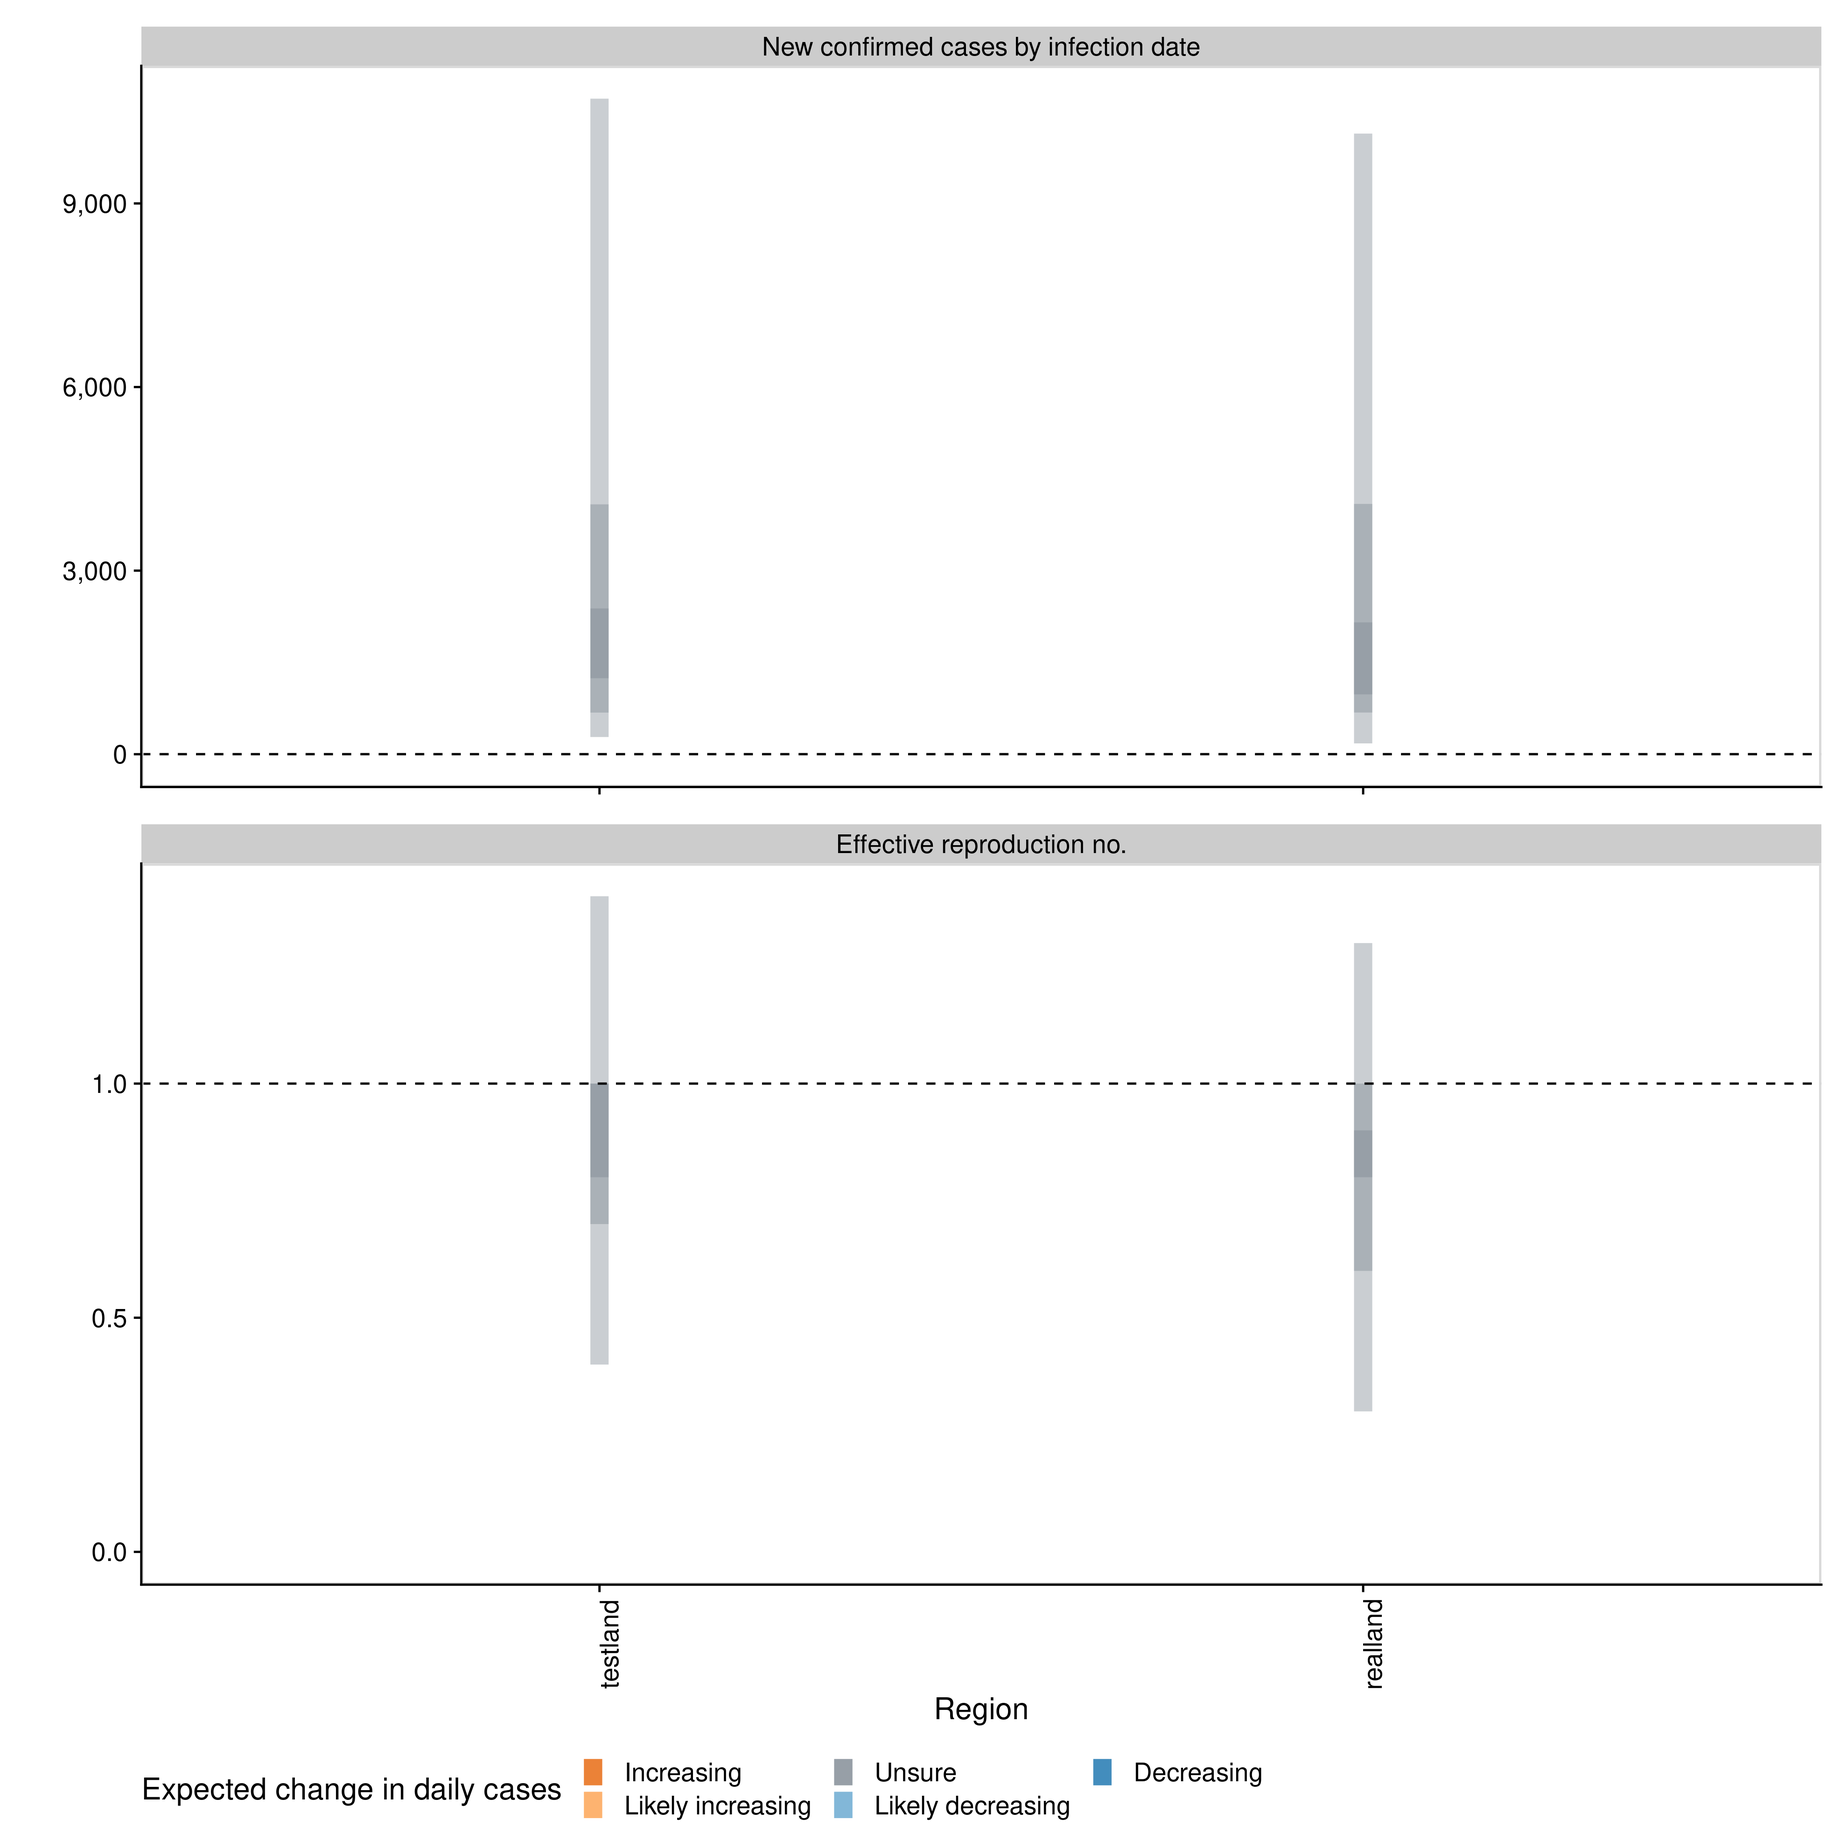
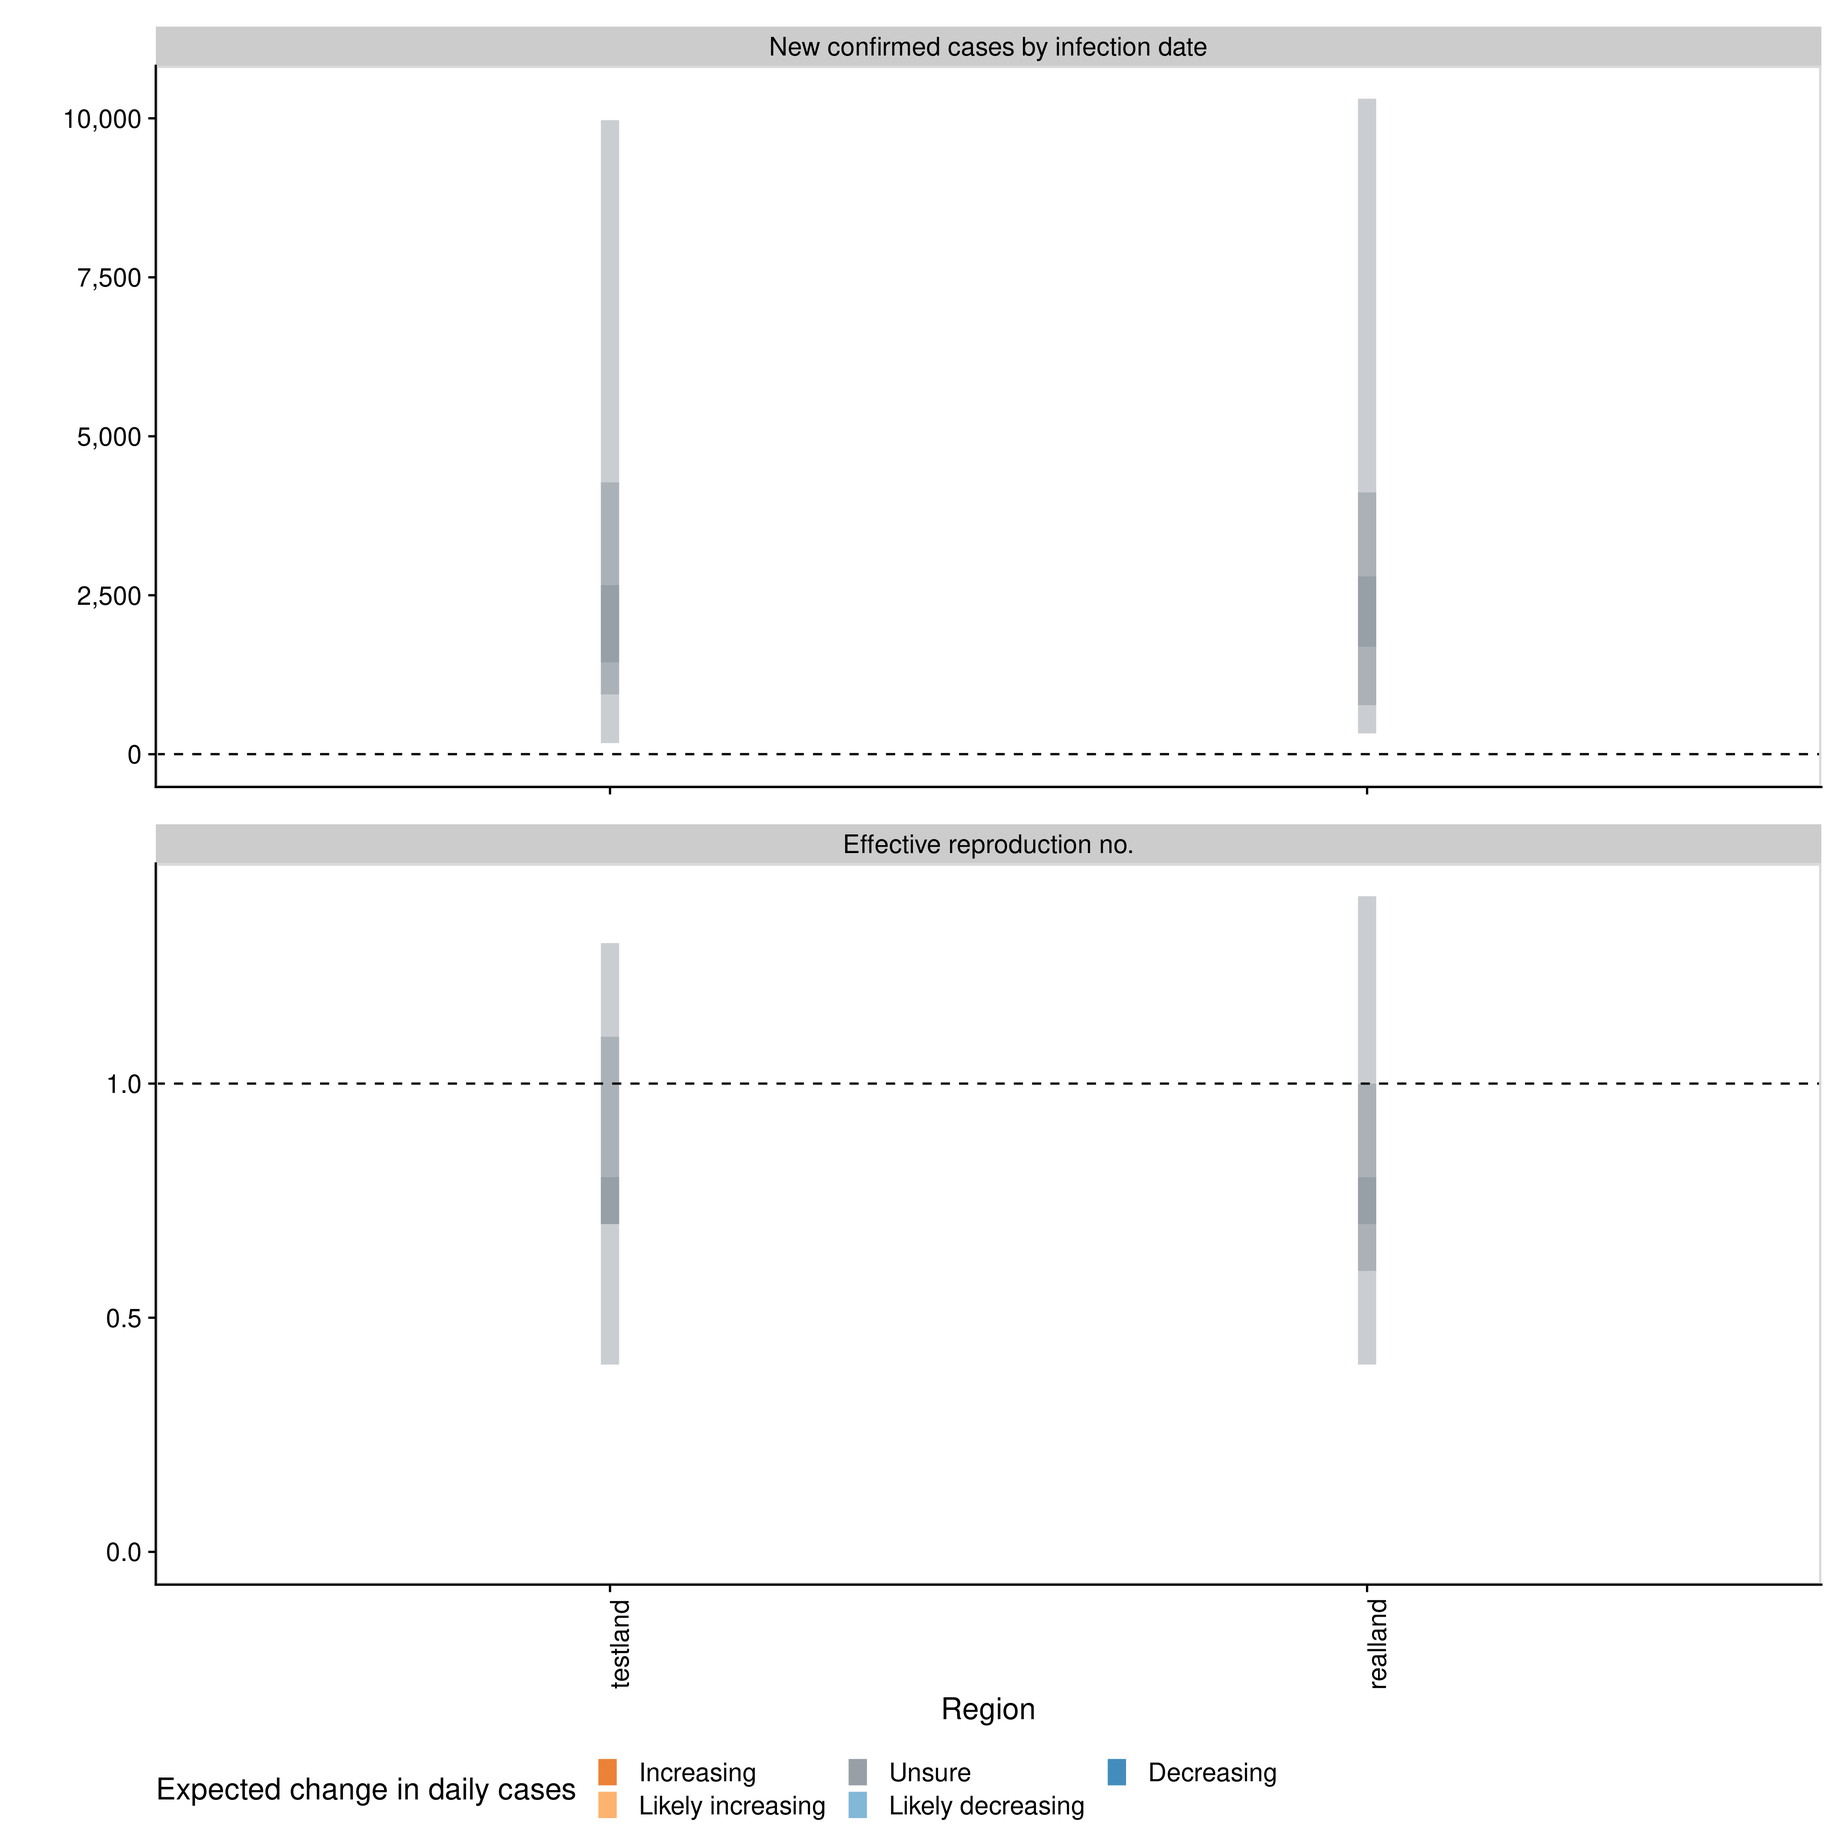
update readme

diff --git a/README.md b/README.md
@@ -147,88 +147,18 @@ incubation period followed by a reporting delay.
 
 ``` r
 reporting_delay <- bootstrapped_dist_fit(rlnorm(100, log(4), 1), max_value = 30)
-#> Warning: UNRELIABLE VALUE: Future ('future_lapply-1') unexpectedly generated
-#> random numbers without specifying argument '[future.]seed'. There is a risk that
-#> those random numbers are not statistically sound and the overall results might
-#> be invalid. To fix this, specify argument '[future.]seed', e.g. 'seed=TRUE'.
-#> This ensures that proper, parallel-safe random numbers are produced via the
-#> L'Ecuyer-CMRG method. To disable this check, use [future].seed=NULL, or set
-#> option 'future.rng.onMisuse' to "ignore".
-#> Warning: UNRELIABLE VALUE: Future ('future_lapply-2') unexpectedly generated
-#> random numbers without specifying argument '[future.]seed'. There is a risk that
-#> those random numbers are not statistically sound and the overall results might
-#> be invalid. To fix this, specify argument '[future.]seed', e.g. 'seed=TRUE'.
-#> This ensures that proper, parallel-safe random numbers are produced via the
-#> L'Ecuyer-CMRG method. To disable this check, use [future].seed=NULL, or set
-#> option 'future.rng.onMisuse' to "ignore".
-#> Warning: UNRELIABLE VALUE: Future ('future_lapply-3') unexpectedly generated
-#> random numbers without specifying argument '[future.]seed'. There is a risk that
-#> those random numbers are not statistically sound and the overall results might
-#> be invalid. To fix this, specify argument '[future.]seed', e.g. 'seed=TRUE'.
-#> This ensures that proper, parallel-safe random numbers are produced via the
-#> L'Ecuyer-CMRG method. To disable this check, use [future].seed=NULL, or set
-#> option 'future.rng.onMisuse' to "ignore".
-#> Warning: UNRELIABLE VALUE: Future ('future_lapply-4') unexpectedly generated
-#> random numbers without specifying argument '[future.]seed'. There is a risk that
-#> those random numbers are not statistically sound and the overall results might
-#> be invalid. To fix this, specify argument '[future.]seed', e.g. 'seed=TRUE'.
-#> This ensures that proper, parallel-safe random numbers are produced via the
-#> L'Ecuyer-CMRG method. To disable this check, use [future].seed=NULL, or set
-#> option 'future.rng.onMisuse' to "ignore".
-#> Warning: UNRELIABLE VALUE: Future ('future_lapply-5') unexpectedly generated
-#> random numbers without specifying argument '[future.]seed'. There is a risk that
-#> those random numbers are not statistically sound and the overall results might
-#> be invalid. To fix this, specify argument '[future.]seed', e.g. 'seed=TRUE'.
-#> This ensures that proper, parallel-safe random numbers are produced via the
-#> L'Ecuyer-CMRG method. To disable this check, use [future].seed=NULL, or set
-#> option 'future.rng.onMisuse' to "ignore".
-#> Warning: UNRELIABLE VALUE: Future ('future_lapply-6') unexpectedly generated
-#> random numbers without specifying argument '[future.]seed'. There is a risk that
-#> those random numbers are not statistically sound and the overall results might
-#> be invalid. To fix this, specify argument '[future.]seed', e.g. 'seed=TRUE'.
-#> This ensures that proper, parallel-safe random numbers are produced via the
-#> L'Ecuyer-CMRG method. To disable this check, use [future].seed=NULL, or set
-#> option 'future.rng.onMisuse' to "ignore".
-#> Warning: UNRELIABLE VALUE: Future ('future_lapply-7') unexpectedly generated
-#> random numbers without specifying argument '[future.]seed'. There is a risk that
-#> those random numbers are not statistically sound and the overall results might
-#> be invalid. To fix this, specify argument '[future.]seed', e.g. 'seed=TRUE'.
-#> This ensures that proper, parallel-safe random numbers are produced via the
-#> L'Ecuyer-CMRG method. To disable this check, use [future].seed=NULL, or set
-#> option 'future.rng.onMisuse' to "ignore".
-#> Warning: UNRELIABLE VALUE: Future ('future_lapply-8') unexpectedly generated
-#> random numbers without specifying argument '[future.]seed'. There is a risk that
-#> those random numbers are not statistically sound and the overall results might
-#> be invalid. To fix this, specify argument '[future.]seed', e.g. 'seed=TRUE'.
-#> This ensures that proper, parallel-safe random numbers are produced via the
-#> L'Ecuyer-CMRG method. To disable this check, use [future].seed=NULL, or set
-#> option 'future.rng.onMisuse' to "ignore".
-#> Warning: UNRELIABLE VALUE: Future ('future_lapply-9') unexpectedly generated
-#> random numbers without specifying argument '[future.]seed'. There is a risk that
-#> those random numbers are not statistically sound and the overall results might
-#> be invalid. To fix this, specify argument '[future.]seed', e.g. 'seed=TRUE'.
-#> This ensures that proper, parallel-safe random numbers are produced via the
-#> L'Ecuyer-CMRG method. To disable this check, use [future].seed=NULL, or set
-#> option 'future.rng.onMisuse' to "ignore".
-#> Warning: UNRELIABLE VALUE: Future ('future_lapply-10') unexpectedly generated
-#> random numbers without specifying argument '[future.]seed'. There is a risk that
-#> those random numbers are not statistically sound and the overall results might
-#> be invalid. To fix this, specify argument '[future.]seed', e.g. 'seed=TRUE'.
-#> This ensures that proper, parallel-safe random numbers are produced via the
-#> L'Ecuyer-CMRG method. To disable this check, use [future].seed=NULL, or set
-#> option 'future.rng.onMisuse' to "ignore".
 reporting_delay
 #> $mean
-#> [1] 1.207047
+#> [1] 1.121562
 #> 
 #> $mean_sd
-#> [1] 0.1490608
+#> [1] 0.1641465
 #> 
 #> $sd
-#> [1] 1.092844
+#> [1] 1.212076
 #> 
 #> $sd_sd
-#> [1] 0.1133359
+#> [1] 0.1357686
 #> 
 #> $max
 #> [1] 30
@@ -293,27 +223,27 @@ parameters in an easily explored format.
 ``` r
 head(estimates$estimates$samples)
 #>      variable  parameter time       date sample     value strat     type
-#> 1: infections infections    1 2020-02-11      1  2.102824  <NA> estimate
-#> 2: infections infections    2 2020-02-12      1 10.833834  <NA> estimate
-#> 3: infections infections    3 2020-02-13      1 15.412873  <NA> estimate
-#> 4: infections infections    4 2020-02-14      1 27.575111  <NA> estimate
-#> 5: infections infections    5 2020-02-15      1 49.794883  <NA> estimate
-#> 6: infections infections    6 2020-02-16      1 58.579067  <NA> estimate
+#> 1: infections infections    1 2020-02-11      1  1.713216  <NA> estimate
+#> 2: infections infections    2 2020-02-12      1 10.361868  <NA> estimate
+#> 3: infections infections    3 2020-02-13      1 18.112208  <NA> estimate
+#> 4: infections infections    4 2020-02-14      1 28.833484  <NA> estimate
+#> 5: infections infections    5 2020-02-15      1 43.713818  <NA> estimate
+#> 6: infections infections    6 2020-02-16      1 51.122634  <NA> estimate
 head(estimates$estimates$summarised)
 #>          date variable strat     type   bottom      top    lower    upper
-#> 1: 2020-02-22        R  <NA> estimate 1.483201 2.086330 1.674702 1.910886
-#> 2: 2020-02-23        R  <NA> estimate 1.529891 2.007782 1.687103 1.870045
-#> 3: 2020-02-24        R  <NA> estimate 1.622208 1.991562 1.741372 1.890153
-#> 4: 2020-02-25        R  <NA> estimate 1.663970 1.958616 1.728444 1.849149
-#> 5: 2020-02-26        R  <NA> estimate 1.686296 1.940857 1.774474 1.882358
-#> 6: 2020-02-27        R  <NA> estimate 1.704416 1.951436 1.768909 1.873016
+#> 1: 2020-02-22        R  <NA> estimate 1.460840 2.071162 1.614854 1.864393
+#> 2: 2020-02-23        R  <NA> estimate 1.523846 2.005474 1.615059 1.818843
+#> 3: 2020-02-24        R  <NA> estimate 1.566266 1.944036 1.663716 1.823922
+#> 4: 2020-02-25        R  <NA> estimate 1.641185 1.941345 1.739435 1.866124
+#> 5: 2020-02-26        R  <NA> estimate 1.657554 1.926520 1.759162 1.865628
+#> 6: 2020-02-27        R  <NA> estimate 1.674716 1.936040 1.752127 1.853318
 #>    central_lower central_upper   median     mean         sd
-#> 1:      1.779339      1.859663 1.790496 1.782737 0.18483995
-#> 2:      1.800382      1.864121 1.795852 1.791083 0.14549205
-#> 3:      1.769671      1.820709 1.799376 1.800271 0.11296815
-#> 4:      1.791555      1.831742 1.809690 1.809384 0.09037439
-#> 5:      1.813028      1.852204 1.817353 1.817405 0.08027247
-#> 6:      1.812926      1.850551 1.824700 1.823275 0.08108804
+#> 1:      1.741297      1.835204 1.742897 1.746969 0.19668356
+#> 2:      1.670770      1.746335 1.753774 1.758797 0.15415863
+#> 3:      1.730337      1.786061 1.767448 1.771843 0.11923808
+#> 4:      1.744617      1.786020 1.780971 1.785113 0.09431922
+#> 5:      1.767667      1.802731 1.795138 1.797524 0.08173062
+#> 6:      1.768931      1.805214 1.803765 1.807954 0.08062760
 ```
 
 Reported cases are returned separately in order to ease reporting of
@@ -322,27 +252,27 @@ forecasts and model evaluation.
 ``` r
 head(estimates$estimated_reported_cases$samples)
 #>          date sample cases  type
-#> 1: 2020-02-22      1    27 gp_rt
-#> 2: 2020-02-23      1   110 gp_rt
-#> 3: 2020-02-24      1    19 gp_rt
-#> 4: 2020-02-25      1   113 gp_rt
-#> 5: 2020-02-26      1    78 gp_rt
-#> 6: 2020-02-27      1   120 gp_rt
+#> 1: 2020-02-22      1    43 gp_rt
+#> 2: 2020-02-23      1    57 gp_rt
+#> 3: 2020-02-24      1   142 gp_rt
+#> 4: 2020-02-25      1   200 gp_rt
+#> 5: 2020-02-26      1    97 gp_rt
+#> 6: 2020-02-27      1   119 gp_rt
 head(estimates$estimated_reported_cases$summarised)
 #>          date  type bottom top lower upper central_lower central_upper median
-#> 1: 2020-02-22 gp_rt     14  67    22    43            29            36     39
-#> 2: 2020-02-23 gp_rt     25 110    40    75            52            64     67
-#> 3: 2020-02-24 gp_rt     30 141    57    98            63            76     84
-#> 4: 2020-02-25 gp_rt     38 164    71   123            79            97     97
-#> 5: 2020-02-26 gp_rt     31 171    63   118            77            95    101
-#> 6: 2020-02-27 gp_rt     57 247    97   168           118           142    142
+#> 1: 2020-02-22 gp_rt     17  76    25    47            35            42     42
+#> 2: 2020-02-23 gp_rt     26 116    46    80            62            74     70
+#> 3: 2020-02-24 gp_rt     29 139    60   103            78            93     87
+#> 4: 2020-02-25 gp_rt     38 167    65   114            88           106    102
+#> 5: 2020-02-26 gp_rt     33 175    66   122            66            88    109
+#> 6: 2020-02-27 gp_rt     62 259    94   170           121           148    147
 #>       mean       sd
-#> 1:  41.536 17.45151
-#> 2:  70.264 28.23820
-#> 3:  89.427 36.45331
-#> 4: 101.552 40.28372
-#> 5: 107.767 44.24478
-#> 6: 152.241 61.15496
+#> 1:  45.414 19.91560
+#> 2:  73.724 28.75581
+#> 3:  91.419 37.51670
+#> 4: 106.639 41.72730
+#> 5: 113.897 46.27522
+#> 6: 156.919 64.67302
 ```
 
 A summary table is returned for rapidly understanding the results and
@@ -350,12 +280,12 @@ for reporting purposes.
 
 ``` r
 estimates$summary
-#>                                  measure            estimate  numeric_estimate
-#> 1: New confirmed cases by infection date  3815 (249 -- 9867) <data.table[1x7]>
-#> 2:        Expected change in daily cases              Unsure               0.7
-#> 3:            Effective reproduction no.    0.9 (0.3 -- 1.3) <data.table[1x7]>
-#> 4:                        Rate of growth -0.04 (-0.2 -- 0.1) <data.table[1x7]>
-#> 5:          Doubling/halving time (days) -16.8 (7.1 -- -3.4) <data.table[1x3]>
+#>                                  measure             estimate  numeric_estimate
+#> 1: New confirmed cases by infection date  3773 (164 -- 10052) <data.table[1x7]>
+#> 2:        Expected change in daily cases               Unsure              0.71
+#> 3:            Effective reproduction no.     0.8 (0.4 -- 1.4) <data.table[1x7]>
+#> 4:                        Rate of growth -0.05 (-0.19 -- 0.1) <data.table[1x7]>
+#> 5:          Doubling/halving time (days)  -14.9 (6.8 -- -3.6) <data.table[1x3]>
 ```
 
 A range of plots are returned (with the single summary plot shown
@@ -395,13 +325,13 @@ estimates <- regional_epinow(reported_cases = reported_cases,
                              generation_time = generation_time,
                              delays = list(incubation_period, reporting_delay),
                              stan_args = list(cores = 4))
-#> INFO [2020-10-05 14:40:58] Reporting estimates using data up to: 2020-04-01
-#> INFO [2020-10-05 14:40:58] Producing estimates for: testland, realland
-#> INFO [2020-10-05 14:40:58] Regions excluded: none
-#> INFO [2020-10-05 14:51:28] Completed regional estimates
-#> INFO [2020-10-05 14:51:28] Regions with estimates: 2
-#> INFO [2020-10-05 14:51:28] Regions with runtime errors: 0
-#> INFO [2020-10-05 14:51:28] Producing summary
+#> INFO [2020-10-05 16:24:40] Reporting estimates using data up to: 2020-04-01
+#> INFO [2020-10-05 16:24:40] Producing estimates for: testland, realland
+#> INFO [2020-10-05 16:24:40] Regions excluded: none
+#> INFO [2020-10-05 16:33:29] Completed regional estimates
+#> INFO [2020-10-05 16:33:29] Regions with estimates: 2
+#> INFO [2020-10-05 16:33:29] Regions with runtime errors: 0
+#> INFO [2020-10-05 16:33:29] Producing summary
 ```
 
 Results from each region are stored in a `regional` list with across
@@ -421,14 +351,14 @@ reporting (along with raw results for further processing).
 ``` r
 estimates$summary$summarised_results$table
 #>      Region New confirmed cases by infection date
-#> 1: realland                   3839 (177 -- 10141)
-#> 2: testland                   3880 (281 -- 10712)
+#> 1: realland                   3816 (327 -- 10309)
+#> 2: testland                    3854 (175 -- 9971)
 #>    Expected change in daily cases Effective reproduction no.
-#> 1:                         Unsure           0.8 (0.3 -- 1.3)
-#> 2:                         Unsure           0.9 (0.4 -- 1.4)
-#>          Rate of growth Doubling/halving time (days)
-#> 1:  -0.04 (-0.2 -- 0.1)            -15.4 (7 -- -3.4)
-#> 2: -0.04 (-0.2 -- 0.11)          -17.1 (6.5 -- -3.4)
+#> 1:                         Unsure           0.8 (0.4 -- 1.4)
+#> 2:                         Unsure           0.8 (0.4 -- 1.3)
+#>           Rate of growth Doubling/halving time (days)
+#> 1:  -0.04 (-0.19 -- 0.1)          -15.6 (6.6 -- -3.7)
+#> 2: -0.04 (-0.19 -- 0.09)          -15.6 (7.9 -- -3.6)
 ```
 
 A range of plots are again returned (with the single summary plot shown
